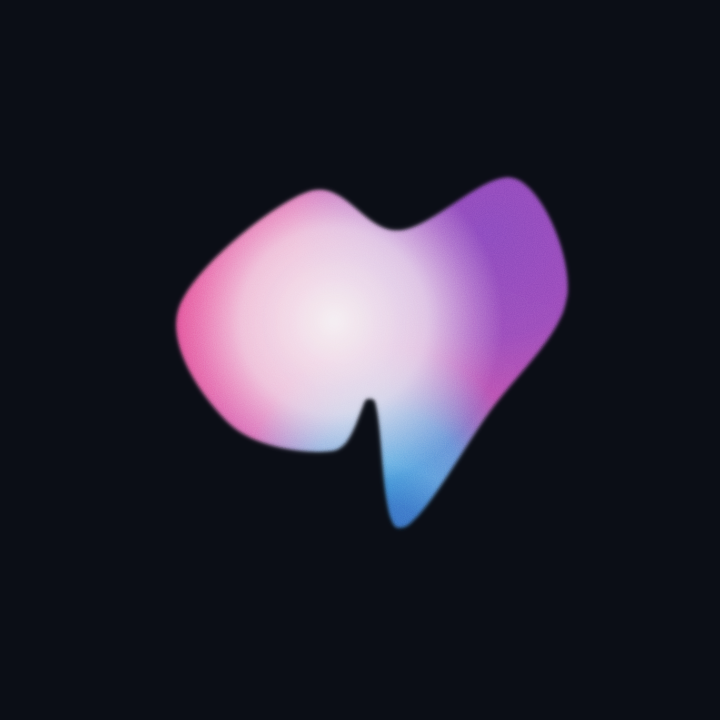
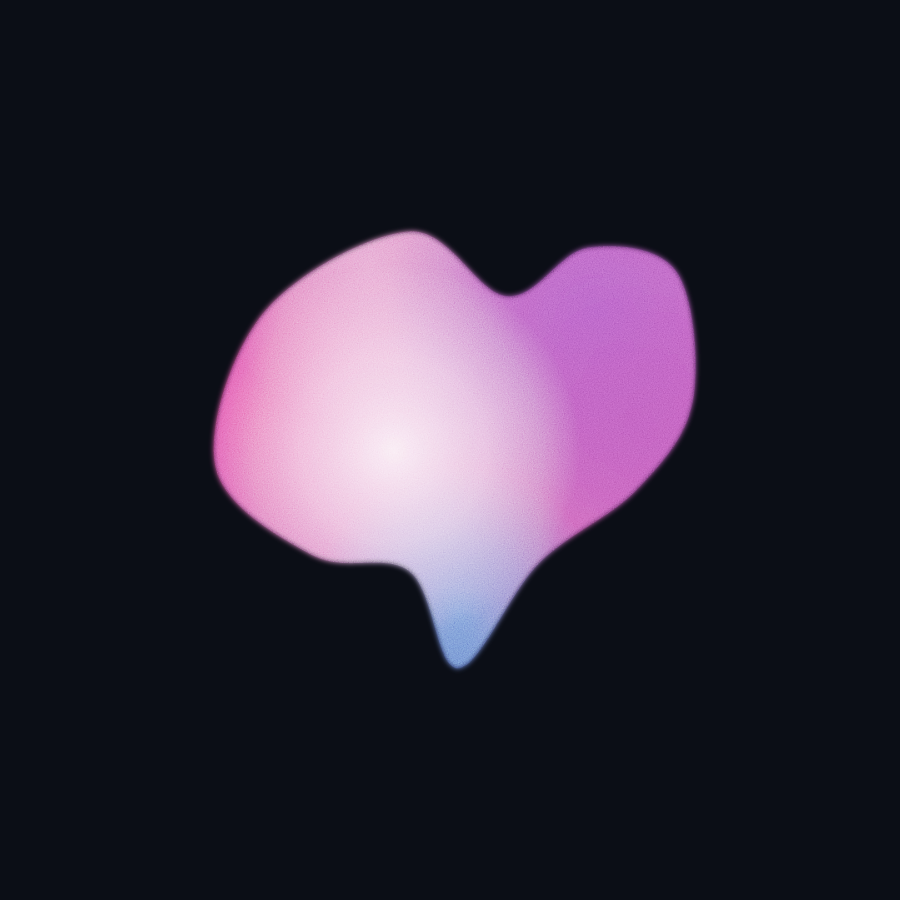
Raise fidelity: refine SHAPES 37 + pebble form/color, blend mesh, visible grain
- SHAPES 37: smoother 12-point 2-lobe form with a rounded foot; refined
  color points (stronger white core, pink/purple/cyan placement).
- Pebble: blue across top + right, orange core, yellow lower (matches
  the IMG_9917 cool-to-warm).
- Mesh stacking now uses lower per-point opacity so color points BLEND
  instead of the top one occluding (closer to a true mesh); synced across
  SVG/Canvas/random/index.
- Grain reworked to grayscale overlay noise so the texture is visible.

Changed region(s): [[0.2139, 0.2444, 0.7944, 0.7639]]

diff --git a/morphing_random.html b/morphing_random.html
@@ -231,11 +231,12 @@ window.MORPH_CONFIG = {
           [0.50,0.22],[0.74,0.40],[0.72,0.66],[0.50,0.78],[0.28,0.64],[0.28,0.40]
         ], "rotation": -6 }
       },
-      "color": { "type": "mesh", "dominant": "#9A93A0", "points": [
-        { "pos": [0.40,0.34], "color": "#6E8AC0", "radius": 0.42, "weight": 1.0 },
-        { "pos": [0.40,0.60], "color": "#5A78B8", "radius": 0.32, "weight": 0.95 },
-        { "pos": [0.50,0.66], "color": "#E8B85A", "radius": 0.28, "weight": 1.05 },
-        { "pos": [0.60,0.50], "color": "#F0913C", "radius": 0.30, "weight": 1.15 }
+      "color": { "type": "mesh", "dominant": "#9C8C84", "points": [
+        { "pos": [0.44,0.29], "color": "#6E8AC0", "radius": 0.36, "weight": 1.15 },
+        { "pos": [0.67,0.41], "color": "#5B86C8", "radius": 0.24, "weight": 1.05 },
+        { "pos": [0.30,0.54], "color": "#C08896", "radius": 0.22, "weight": 0.95 },
+        { "pos": [0.50,0.70], "color": "#F0C060", "radius": 0.22, "weight": 1.05 },
+        { "pos": [0.52,0.55], "color": "#F0743C", "radius": 0.22, "weight": 1.1 }
       ] },
       "render": { "edgeFeather": 0.008, "glow": { "spread": 0.0, "opacity": 0.0 }, "grain": 0.08 },
       "opacity": 0.95
@@ -286,17 +287,20 @@ window.MORPH_CONFIG = {
       "form": {
         "archetype": "two-lobe-organic", "topology": "closed-blob",
         "description": "비대칭 2엽 유기체 — 좌하 둥근 로브 + 우상 키큰 로브, 아래 가장자리 오목한 목.",
-        "blob": { "points": 10, "concave": true, "controlPoints": [
-          [0.82,0.40],[0.74,0.22],[0.56,0.30],[0.42,0.24],[0.22,0.42],
-          [0.30,0.60],[0.46,0.64],[0.52,0.56],[0.56,0.76],[0.70,0.58]
+        "blob": { "points": 12, "concave": true, "controlPoints": [
+          [0.80,0.44],[0.78,0.28],[0.67,0.25],[0.57,0.31],[0.45,0.23],
+          [0.27,0.33],[0.21,0.52],[0.33,0.63],[0.45,0.65],[0.51,0.77],
+          [0.61,0.64],[0.73,0.55]
         ], "rotation": 2 }
       },
-      "color": { "type": "mesh", "dominant": "#D060B8", "points": [
-        { "pos": [0.28,0.40], "color": "#E84D9B", "radius": 0.26, "weight": 1.05 },
-        { "pos": [0.70,0.30], "color": "#9A56C6", "radius": 0.30, "weight": 1.05 },
-        { "pos": [0.54,0.70], "color": "#5BB8E8", "radius": 0.22, "weight": 1.0 },
-        { "pos": [0.54,0.80], "color": "#3A7AC8", "radius": 0.14, "weight": 0.95 },
-        { "pos": [0.46,0.44], "color": "#F6F1F4", "radius": 0.26, "weight": 1.45 }
+      "color": { "type": "mesh", "dominant": "#C95FB0", "points": [
+        { "pos": [0.25,0.45], "color": "#E8459A", "radius": 0.24, "weight": 1.15 },
+        { "pos": [0.40,0.27], "color": "#F2C2DC", "radius": 0.20, "weight": 1.0 },
+        { "pos": [0.68,0.33], "color": "#9A56C6", "radius": 0.26, "weight": 1.1 },
+        { "pos": [0.74,0.48], "color": "#B14FB0", "radius": 0.20, "weight": 1.0 },
+        { "pos": [0.51,0.70], "color": "#56B6EA", "radius": 0.18, "weight": 1.05 },
+        { "pos": [0.51,0.79], "color": "#3A7AC8", "radius": 0.12, "weight": 0.95 },
+        { "pos": [0.43,0.50], "color": "#FBF4F8", "radius": 0.23, "weight": 1.7 }
       ] },
       "render": { "edgeFeather": 0.003, "glow": { "spread": 0.0, "opacity": 0.0 }, "grain": 0.16 },
       "opacity": 0.96
@@ -383,8 +387,8 @@ function tracePath(c,pts,now){const m=pts.length,P=[],n=CFG.globalMotion.organic
     c.bezierCurveTo(p1[0]+(p2[0]-p0[0])/6,p1[1]+(p2[1]-p0[1])/6,p2[0]-(p3[0]-p1[0])/6,p2[1]-(p3[1]-p1[1])/6,p2[0],p2[1]);}
   c.closePath();}
 function paintMesh(c,color,alpha){c.save();c.globalAlpha=alpha;c.fillStyle=color.dominant||'#888';c.fillRect(OX,OY,S,S);
-  for(const pt of color.points){const cx=OX+pt.pos[0]*S,cy=OY+pt.pos[1]*S,r=Math.max(4,pt.radius*S),w=Math.min(1,pt.weight);
-    const g=c.createRadialGradient(cx,cy,1,cx,cy,r);g.addColorStop(0,hexA(pt.color,w));g.addColorStop(0.55,hexA(pt.color,0.75*w));g.addColorStop(1,hexA(pt.color,0));
+  for(const pt of color.points){const cx=OX+pt.pos[0]*S,cy=OY+pt.pos[1]*S,r=Math.max(4,pt.radius*S),o0=Math.min(0.92,pt.weight*0.62);
+    const g=c.createRadialGradient(cx,cy,1,cx,cy,r);g.addColorStop(0,hexA(pt.color,o0));g.addColorStop(0.5,hexA(pt.color,0.62*o0));g.addColorStop(1,hexA(pt.color,0));
     c.fillStyle=g;c.fillRect(OX,OY,S,S);}c.restore();}
 
 const lbl=document.getElementById('lbl');

diff --git a/.verify_render.js b/.verify_render.js
@@ -21,9 +21,10 @@ function meshDefsBody(color, idp, ox, oy, sc) {
   let defs = '', body = '';
   color.points.forEach((pt, j) => {
     const id = `${idp}_${j}`, cx = ox + pt.pos[0] * sc, cy = oy + pt.pos[1] * sc, r = Math.max(4, pt.radius * sc);
+    const o0 = Math.min(0.92, pt.weight * 0.62);
     defs += `<radialGradient id="${id}" gradientUnits="userSpaceOnUse" cx="${cx.toFixed(1)}" cy="${cy.toFixed(1)}" r="${r.toFixed(1)}">`
-      + `<stop offset="0" stop-color="${pt.color}" stop-opacity="${Math.min(1, pt.weight).toFixed(2)}"/>`
-      + `<stop offset="0.55" stop-color="${pt.color}" stop-opacity="${(0.75 * Math.min(1, pt.weight)).toFixed(2)}"/>`
+      + `<stop offset="0" stop-color="${pt.color}" stop-opacity="${o0.toFixed(2)}"/>`
+      + `<stop offset="0.5" stop-color="${pt.color}" stop-opacity="${(0.62 * o0).toFixed(2)}"/>`
       + `<stop offset="1" stop-color="${pt.color}" stop-opacity="0"/></radialGradient>`;
     body += `<rect x="${ox}" y="${oy}" width="${sc}" height="${sc}" fill="url(#${id})"/>`;
   });
@@ -37,14 +38,14 @@ function cellSVG(idx, s, cx, cy, cell) {
   const defs =
     `<filter id="gb${idx}" x="-90%" y="-90%" width="280%" height="280%"><feGaussianBlur stdDeviation="${glowBlur.toFixed(1)}"/></filter>`
     + `<filter id="ff${idx}" x="-40%" y="-40%" width="180%" height="180%"><feGaussianBlur stdDeviation="${feather.toFixed(1)}"/></filter>`
-    + `<filter id="gr${idx}"><feTurbulence type="fractalNoise" baseFrequency="0.9" numOctaves="2" seed="${idx * 7 + 3}" stitchTiles="stitch" result="n"/><feColorMatrix in="n" type="matrix" values="0 0 0 0 0  0 0 0 0 0  0 0 0 0 0  0 0 0 ${r.grain.toFixed(2)} 0"/></filter>`
+    + `<filter id="gr${idx}"><feTurbulence type="fractalNoise" baseFrequency="0.8" numOctaves="2" seed="${idx * 7 + 3}" stitchTiles="stitch"/><feColorMatrix type="matrix" values="0.33 0.33 0.33 0 0  0.33 0.33 0.33 0 0  0.33 0.33 0.33 0 0  0 0 0 0 1"/></filter>`
     + `<clipPath id="cp${idx}"><path d="${d}"/></clipPath>` + mesh.defs;
   const body =
     `<path d="${d}" fill="${dom}" filter="url(#gb${idx})" opacity="${r.glow.opacity}"/>`            // (1) glow 헤일로
     + `<g filter="url(#ff${idx})"><g clip-path="url(#cp${idx})">`                                    // (2) form: clip 후 외곽 feather
     + `<rect x="${ox}" y="${oy}" width="${sc}" height="${sc}" fill="${dom}"/>` + mesh.body            //     base + 메시 색점 스택
     + `</g></g>`
-    + `<g clip-path="url(#cp${idx})" style="mix-blend-mode:overlay"><rect x="${ox - sc * 0.2}" y="${oy - sc * 0.2}" width="${sc * 1.4}" height="${sc * 1.4}" filter="url(#gr${idx})"/></g>`; // (3) grain
+    + `<g clip-path="url(#cp${idx})" opacity="${Math.min(0.6, r.grain * 3.2).toFixed(2)}" style="mix-blend-mode:overlay"><rect x="${ox - sc * 0.2}" y="${oy - sc * 0.2}" width="${sc * 1.4}" height="${sc * 1.4}" filter="url(#gr${idx})"/></g>`; // (3) grain (grayscale overlay)
   return { defs, body };
 }
 function render(svg, w, out) { fs.writeFileSync(out, new Resvg(svg, { fitTo: { mode: 'width', value: w }, background: '#0B0E16' }).render().asPng()); }
@@ -63,7 +64,7 @@ function render(svg, w, out) { fs.writeFileSync(out, new Resvg(svg, { fitTo: { m
 })();
 // SHAPES 37 + pebble 대형 클로즈업
 [['08_gradient_shapes_37', 'verify_sample_37.png'], ['05_modern_gradient_shapes_pebble', 'verify_sample_pebble.png']].forEach(([id, file]) => {
-  const idx = SHAPES.findIndex(s => s.cfg.id === id), s = SHAPES[idx], cell = 720;
+  const idx = SHAPES.findIndex(s => s.cfg.id === id), s = SHAPES[idx], cell = 900;
   const c = cellSVG(900 + idx, s, 0, 0, cell);
   render(`<svg xmlns="http://www.w3.org/2000/svg" width="${cell}" height="${cell}" viewBox="0 0 ${cell} ${cell}"><rect width="${cell}" height="${cell}" fill="#0B0E16"/><defs>${c.defs}</defs>${c.body}</svg>`, cell, file);
   console.log('✓ ' + file);

diff --git a/morphing_config.js b/morphing_config.js
@@ -130,11 +130,12 @@ window.MORPH_CONFIG = {
           [0.50,0.22],[0.74,0.40],[0.72,0.66],[0.50,0.78],[0.28,0.64],[0.28,0.40]
         ], "rotation": -6 }
       },
-      "color": { "type": "mesh", "dominant": "#9A93A0", "points": [
-        { "pos": [0.40,0.34], "color": "#6E8AC0", "radius": 0.42, "weight": 1.0 },
-        { "pos": [0.40,0.60], "color": "#5A78B8", "radius": 0.32, "weight": 0.95 },
-        { "pos": [0.50,0.66], "color": "#E8B85A", "radius": 0.28, "weight": 1.05 },
-        { "pos": [0.60,0.50], "color": "#F0913C", "radius": 0.30, "weight": 1.15 }
+      "color": { "type": "mesh", "dominant": "#9C8C84", "points": [
+        { "pos": [0.44,0.29], "color": "#6E8AC0", "radius": 0.36, "weight": 1.15 },
+        { "pos": [0.67,0.41], "color": "#5B86C8", "radius": 0.24, "weight": 1.05 },
+        { "pos": [0.30,0.54], "color": "#C08896", "radius": 0.22, "weight": 0.95 },
+        { "pos": [0.50,0.70], "color": "#F0C060", "radius": 0.22, "weight": 1.05 },
+        { "pos": [0.52,0.55], "color": "#F0743C", "radius": 0.22, "weight": 1.1 }
       ] },
       "render": { "edgeFeather": 0.008, "glow": { "spread": 0.0, "opacity": 0.0 }, "grain": 0.08 },
       "opacity": 0.95
@@ -185,17 +186,20 @@ window.MORPH_CONFIG = {
       "form": {
         "archetype": "two-lobe-organic", "topology": "closed-blob",
         "description": "비대칭 2엽 유기체 — 좌하 둥근 로브 + 우상 키큰 로브, 아래 가장자리 오목한 목.",
-        "blob": { "points": 10, "concave": true, "controlPoints": [
-          [0.82,0.40],[0.74,0.22],[0.56,0.30],[0.42,0.24],[0.22,0.42],
-          [0.30,0.60],[0.46,0.64],[0.52,0.56],[0.56,0.76],[0.70,0.58]
+        "blob": { "points": 12, "concave": true, "controlPoints": [
+          [0.80,0.44],[0.78,0.28],[0.67,0.25],[0.57,0.31],[0.45,0.23],
+          [0.27,0.33],[0.21,0.52],[0.33,0.63],[0.45,0.65],[0.51,0.77],
+          [0.61,0.64],[0.73,0.55]
         ], "rotation": 2 }
       },
-      "color": { "type": "mesh", "dominant": "#D060B8", "points": [
-        { "pos": [0.28,0.40], "color": "#E84D9B", "radius": 0.26, "weight": 1.05 },
-        { "pos": [0.70,0.30], "color": "#9A56C6", "radius": 0.30, "weight": 1.05 },
-        { "pos": [0.54,0.70], "color": "#5BB8E8", "radius": 0.22, "weight": 1.0 },
-        { "pos": [0.54,0.80], "color": "#3A7AC8", "radius": 0.14, "weight": 0.95 },
-        { "pos": [0.46,0.44], "color": "#F6F1F4", "radius": 0.26, "weight": 1.45 }
+      "color": { "type": "mesh", "dominant": "#C95FB0", "points": [
+        { "pos": [0.25,0.45], "color": "#E8459A", "radius": 0.24, "weight": 1.15 },
+        { "pos": [0.40,0.27], "color": "#F2C2DC", "radius": 0.20, "weight": 1.0 },
+        { "pos": [0.68,0.33], "color": "#9A56C6", "radius": 0.26, "weight": 1.1 },
+        { "pos": [0.74,0.48], "color": "#B14FB0", "radius": 0.20, "weight": 1.0 },
+        { "pos": [0.51,0.70], "color": "#56B6EA", "radius": 0.18, "weight": 1.05 },
+        { "pos": [0.51,0.79], "color": "#3A7AC8", "radius": 0.12, "weight": 0.95 },
+        { "pos": [0.43,0.50], "color": "#FBF4F8", "radius": 0.23, "weight": 1.7 }
       ] },
       "render": { "edgeFeather": 0.003, "glow": { "spread": 0.0, "opacity": 0.0 }, "grain": 0.16 },
       "opacity": 0.96

diff --git a/index.html b/index.html
@@ -82,8 +82,8 @@ function tracePath(c,pts,now){const m=pts.length,P=[],n=CFG.globalMotion.organic
     c.bezierCurveTo(p1[0]+(p2[0]-p0[0])/6,p1[1]+(p2[1]-p0[1])/6,p2[0]-(p3[0]-p1[0])/6,p2[1]-(p3[1]-p1[1])/6,p2[0],p2[1]);}
   c.closePath();}
 function paintMesh(c,color,alpha){c.save();c.globalAlpha=alpha;c.fillStyle=color.dominant||'#888';c.fillRect(OX,OY,S,S);
-  for(const pt of color.points){const cx=OX+pt.pos[0]*S,cy=OY+pt.pos[1]*S,r=Math.max(4,pt.radius*S),w=Math.min(1,pt.weight);
-    const g=c.createRadialGradient(cx,cy,1,cx,cy,r);g.addColorStop(0,hexA(pt.color,w));g.addColorStop(0.55,hexA(pt.color,0.75*w));g.addColorStop(1,hexA(pt.color,0));
+  for(const pt of color.points){const cx=OX+pt.pos[0]*S,cy=OY+pt.pos[1]*S,r=Math.max(4,pt.radius*S),o0=Math.min(0.92,pt.weight*0.62);
+    const g=c.createRadialGradient(cx,cy,1,cx,cy,r);g.addColorStop(0,hexA(pt.color,o0));g.addColorStop(0.5,hexA(pt.color,0.62*o0));g.addColorStop(1,hexA(pt.color,0));
     c.fillStyle=g;c.fillRect(OX,OY,S,S);}c.restore();}
 let cur=Math.floor(Math.random()*SHAPES.length),next=pickNext(cur),dur=rand(2200,3200),hold=rand(1000,1700),t0=performance.now();
 function pickNext(c){let n;do{n=Math.floor(Math.random()*SHAPES.length);}while(n===c);return n;}

diff --git a/morphing_demo_svg.html b/morphing_demo_svg.html
@@ -71,8 +71,8 @@ SHAPES.forEach((s,si)=>{s.cfg.color.points.forEach((pt,j)=>{
   const g=document.createElementNS(SVGNS,'radialGradient'),id=`mg_${si}_${j}`;
   g.setAttribute('id',id);g.setAttribute('gradientUnits','userSpaceOnUse');
   g.setAttribute('cx',pt.pos[0]*1000);g.setAttribute('cy',pt.pos[1]*1000);g.setAttribute('r',Math.max(8,pt.radius*1000));
-  const w=Math.min(1,pt.weight);
-  g.innerHTML=`<stop offset="0" stop-color="${pt.color}" stop-opacity="${w.toFixed(2)}"/><stop offset="0.55" stop-color="${pt.color}" stop-opacity="${(0.75*w).toFixed(2)}"/><stop offset="1" stop-color="${pt.color}" stop-opacity="0"/>`;
+  const o0=Math.min(0.92,pt.weight*0.62);
+  g.innerHTML=`<stop offset="0" stop-color="${pt.color}" stop-opacity="${o0.toFixed(2)}"/><stop offset="0.5" stop-color="${pt.color}" stop-opacity="${(0.62*o0).toFixed(2)}"/><stop offset="1" stop-color="${pt.color}" stop-opacity="0"/>`;
   meshDefs.appendChild(g);});});
 function fillMesh(group,si){group.innerHTML='';SHAPES[si].cfg.color.points.forEach((pt,j)=>{
   const r=document.createElementNS(SVGNS,'rect');r.setAttribute('x',0);r.setAttribute('y',0);r.setAttribute('width',1000);r.setAttribute('height',1000);

diff --git a/morphing_demo_canvas.html b/morphing_demo_canvas.html
@@ -51,8 +51,8 @@ function tracePath(c,pts,now){const m=pts.length,P=[],n=CFG.globalMotion.organic
 // 메시 색점 스택 (base dominant + color→transparent 라디얼)
 function paintMesh(c,color,alpha){c.save();c.globalAlpha=alpha;
   c.fillStyle=color.dominant||'#888';c.fillRect(OX,OY,S,S);
-  for(const pt of color.points){const cx=OX+pt.pos[0]*S,cy=OY+pt.pos[1]*S,r=Math.max(4,pt.radius*S),w=Math.min(1,pt.weight);
-    const g=c.createRadialGradient(cx,cy,1,cx,cy,r);g.addColorStop(0,hexA(pt.color,w));g.addColorStop(0.55,hexA(pt.color,0.75*w));g.addColorStop(1,hexA(pt.color,0));
+  for(const pt of color.points){const cx=OX+pt.pos[0]*S,cy=OY+pt.pos[1]*S,r=Math.max(4,pt.radius*S),o0=Math.min(0.92,pt.weight*0.62);
+    const g=c.createRadialGradient(cx,cy,1,cx,cy,r);g.addColorStop(0,hexA(pt.color,o0));g.addColorStop(0.5,hexA(pt.color,0.62*o0));g.addColorStop(1,hexA(pt.color,0));
     c.fillStyle=g;c.fillRect(OX,OY,S,S);}c.restore();}
 
 const lbl=document.getElementById('lbl');
